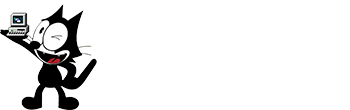
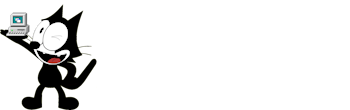
Add files via upload

diff --git a/1.js b/1.js
@@ -1,0 +1,20 @@
+document.addEventListener("DOMContentLoaded", () => {
+
+    var date = new Date();
+
+    const time = Intl.DateTimeFormat("ru",{
+        "hour":"numeric",
+        "minute":"numeric",
+        "second":"numeric"
+    }).format(date);
+
+    date = Intl.DateTimeFormat("ru",{
+        "day":"numeric",
+        "month":"numeric"
+    }).format(date);
+
+    if (date=="28.02"){
+        document.querySelector("#background > img").src="1.png";
+    }
+    
+});

diff --git a/index.html b/index.html
@@ -9,6 +9,7 @@
             <meta name="description" content="Сайт программиста Феликса Петрова">
             <meta name="viewport" content="width=device-width, initial-scale=1">
             <link rel="stylesheet" media="(max-width: 768px)" href="2.css">
+            <script src="1.js"></script>
 
     </head>
 

diff --git a/ttleditor.html b/ttleditor.html
@@ -9,6 +9,7 @@
             <link rel="stylesheet" href="windows.css">
             <meta name="viewport" content="width=device-width, initial-scale=1">
             <link rel="stylesheet" media="(max-width: 768px)" href="2.css">
+            <script src="1.js"></script>
             <link rel="stylesheet" href="ttleditor.css">
     </head>
 

diff --git a/graphik2_2.html b/graphik2_2.html
@@ -9,6 +9,7 @@
             <link rel="stylesheet" href="excel.css">
             <meta name="viewport" content="width=device-width, initial-scale=1">
             <link rel="stylesheet" media="(max-width: 768px)" href="2.css">
+            <script src="1.js"></script>
             <link rel="stylesheet" href="graphik2_2.css">
     </head>
 

diff --git a/windows.html b/windows.html
@@ -9,6 +9,7 @@
             <link rel="stylesheet" href="windows.css">
             <meta name="viewport" content="width=device-width, initial-scale=1">
             <link rel="stylesheet" media="(max-width: 768px)" href="2.css">
+            <script src="1.js"></script>
     </head>
 
     <body>

diff --git a/excel.html b/excel.html
@@ -9,6 +9,7 @@
             <link rel="stylesheet" href="excel.css">
             <meta name="viewport" content="width=device-width, initial-scale=1">
             <link rel="stylesheet" media="(max-width: 768px)" href="2.css">
+            <script src="1.js"></script>
     </head>
 
     <body>

diff --git a/word.html b/word.html
@@ -9,6 +9,7 @@
             <link rel="stylesheet" href="word.css">
             <meta name="viewport" content="width=device-width, initial-scale=1">
             <link rel="stylesheet" media="(max-width: 768px)" href="2.css">
+            <script src="1.js"></script>
     </head>
 
     <body>

diff --git a/py.html b/py.html
@@ -9,6 +9,7 @@
             <link rel="stylesheet" href="py.css">
             <meta name="viewport" content="width=device-width, initial-scale=1">
             <link rel="stylesheet" media="(max-width: 768px)" href="2.css">
+            <script src="1.js"></script>
     </head>
 
     <body>
